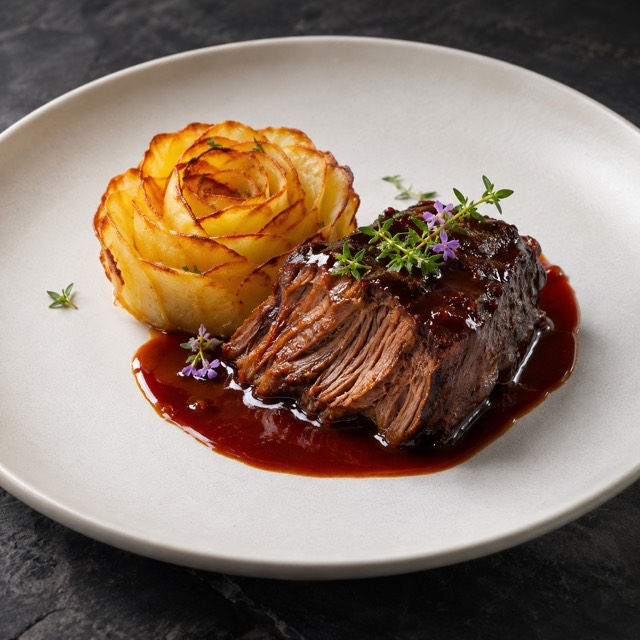
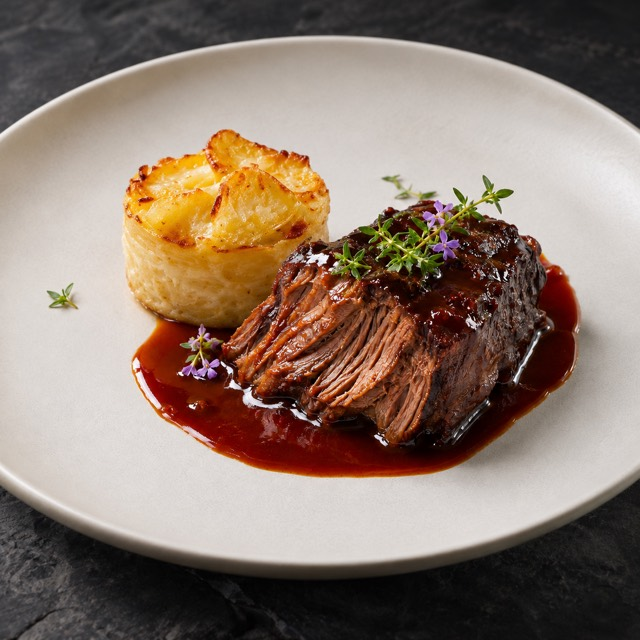
Fiestas: Navidad meloso with gratinado de patata (new photo), kids menu 22 €

diff --git a/fiestas/menus.js b/fiestas/menus.js
@@ -16,7 +16,7 @@ window.FIESTAS = {
   },
   days: [
     {
-      date: '2026-12-25', name: 'Navidad', ca: 'Nadal', zh: '圣诞节', price: 55.5, kidsPrice: 25,
+      date: '2026-12-25', name: 'Navidad', ca: 'Nadal', zh: '圣诞节', price: 55.5, kidsPrice: 22,
       deadline: '2026-12-19', theme: 'navidad',
       pica: { key: 'pica25b', items: [
         { es: 'Tabla de embutidos ibéricos y queso', plate: true },
@@ -33,7 +33,7 @@ window.FIESTAS = {
         ],
         segundo: [
           { key: 'cabr25', es: 'Paletilla de cabrito al horno con patatas panaderas y su jugo al romero' },
-          { key: 'melo25', es: 'Meloso de ternera asado 18 horas, deshuesado, con flor de patata y salsa demi‑glace al vino tinto' },
+          { key: 'melo25', es: 'Meloso de ternera asado 18 horas, deshuesado, con gratinado de patata y salsa demi‑glace al vino tinto' },
           { key: 'seny25', es: 'Arroz del senyoret con vieiras' },
           { key: 'roda25', es: 'Lomo de rodaballo con salsa de cava y azafrán y espinacas a la catalana' }
         ],
